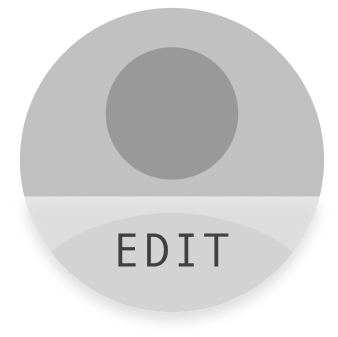
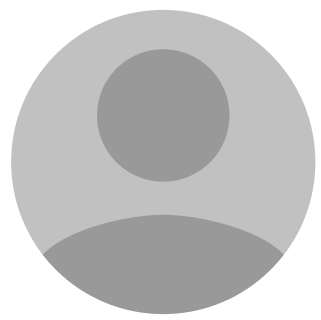
update layout

diff --git a/src/views/components/user/mmr/mmr-information.component.js b/src/views/components/user/mmr/mmr-information.component.js
@@ -2,7 +2,7 @@ import React, { Component } from 'react';
 import PropTypes from 'prop-types';
 import ReactNative, {
   StyleSheet,
-  Image, View, TouchableOpacity, Text, SafeAreaView, ScrollView, TextInput, KeyboardAvoidingView,
+  Image, View, TouchableOpacity, Text, SafeAreaView, ScrollView, TextInput, KeyboardAvoidingView, ImageBackground,
 } from 'react-native';
 import moment from 'moment';
 import { convertWidth, } from 'src/utils';
@@ -101,13 +101,14 @@ export class MMRInformationComponent extends Component {
   }
 
   render() {
+    console.log('mmrInformation :', this.state.mmrInformation);
     return (
       <SafeAreaView style={styles.bodySafeView}>
         <View style={styles.header}>
           <TouchableOpacity style={styles.headerLeft} onPress={() => this.props.displayFromUserScreen ? Actions.account() : Actions.pop()}>
             <Image style={styles.headerLeftBackIcon} source={require('assets/imgs2/back_icon_black.png')} />
           </TouchableOpacity>
-          <Text style={styles.headerTitle}>Minimum Medical Record</Text>
+          <Text style={styles.headerTitle} numberOfLines={1}>Minimum Medical Record</Text>
           <TouchableOpacity style={styles.headerRight} disabled={this.state.isEditing} onPress={() => this.setState({ isEditing: !this.state.isEditing })}>
             {!this.state.isEditing && <Image style={styles.headerLeftBackIcon} source={require('assets/imgs2/edition_icon_black.png')} />}
           </TouchableOpacity>
@@ -147,7 +148,7 @@ export class MMRInformationComponent extends Component {
               <Image style={styles.cardHeaderIcon} source={require('assets/imgs2/mmr_information_icon_1.png')} />
             </ShadowTopComponent>
             <View style={styles.cardContentRow}>
-              <Text>{this.state.mmrInformation.activeClinicalDiagnoses}</Text>
+              <Text style={styles.cardContentRowValue}>{this.state.mmrInformation.activeClinicalDiagnoses}</Text>
             </View>
           </ShadowComponent>
 
@@ -159,7 +160,7 @@ export class MMRInformationComponent extends Component {
               <Image style={styles.cardHeaderIcon} source={require('assets/imgs2/mmr_information_icon_2.png')} />
             </ShadowTopComponent>
             <View style={styles.cardContentRow}>
-              <Text>{this.state.mmrInformation.currentTreatmentsAndDosages}</Text>
+              <Text style={styles.cardContentRowValue}>{this.state.mmrInformation.currentTreatmentsAndDosages}</Text>
             </View>
           </ShadowComponent>
 
@@ -171,7 +172,7 @@ export class MMRInformationComponent extends Component {
               <Image style={styles.cardHeaderIcon} source={require('assets/imgs2/mmr_information_icon_3.png')} />
             </ShadowTopComponent>
             <View style={styles.cardContentRow}>
-              <Text>{this.state.mmrInformation.allergiesAndReactions}</Text>
+              <Text style={styles.cardContentRowValue}>{this.state.mmrInformation.allergiesAndReactions}</Text>
             </View>
           </ShadowComponent>
 
@@ -183,7 +184,7 @@ export class MMRInformationComponent extends Component {
               <Image style={styles.cardHeaderIcon} source={require('assets/imgs2/mmr_information_icon_4.png')} />
             </ShadowTopComponent>
             <View style={styles.cardContentRow}>
-              <Text>{this.state.mmrInformation.visibleAndInvisibleDisabilities}</Text>
+              <Text style={styles.cardContentRowValue}>{this.state.mmrInformation.visibleAndInvisibleDisabilities}</Text>
             </View>
           </ShadowComponent>
         </ScrollView>}
@@ -200,10 +201,13 @@ export class MMRInformationComponent extends Component {
               <View style={styles.cardContentRow}>
                 <TouchableOpacity onPress={this.chooseAvatar.bind(this)}>
                   <Image style={styles.mmrInformationAvatar} source={this.state.mmrInformation.avatar ? { uri: this.state.mmrInformation.avatar } : require('assets/imgs2/mmr_avarta_default.png')} />
+                  <ImageBackground style={styles.mmrInformationAvatarCover} source={require('assets/imgs2/mmr_avarta_edit_cover.png')}>
+                  </ImageBackground>
+                  {/* <View style={styles.mmrInformationAvatarCover}><Text style={{ fontFamily: 'Andale Mono', fontSize: 12, color: '#404040' }}>EDIT</Text></View> */}
                 </TouchableOpacity>
                 <View style={styles.mmrInformationBasic}>
                   <Text style={styles.mmrInformationLabel}>Name</Text>
-                  <TextInput style={[styles.mmrInformationValueInput, { paddingLeft: convertWidth(16), paddingRight: convertWidth(16) }]}
+                  <TextInput style={[styles.mmrInformationValueInput, { paddingLeft: convertWidth(16), paddingRight: convertWidth(16), color: '#C1C1C1' }]}
                     placeholder='TAP TO INPUT'
                     defaultValue={this.state.mmrInformation.name}
                     onChangeText={(name) => this.updateMMRInformationState.bind(this)({ name })}
@@ -211,8 +215,14 @@ export class MMRInformationComponent extends Component {
                   <View style={{ flex: 1, flexDirection: 'row', marginTop: 16 }}>
                     <View style={{ flex: 1, flexDirection: 'column' }}>
                       <Text style={styles.mmrInformationLabel}>Date of birth</Text>
-                      <DatePicker style={styles.mmrInformationValueInput}
-                        date={this.state.mmrInformation.birthday}
+                      <DatePicker style={{
+                        marginTop: 3,
+                        flex: 1, width: '100%', height: 32,
+                        backgroundColor: '#F5F5F5',
+                        borderColor: 'transparent', borderWidth: 0.1, borderRadius: 4,
+                        shadowOffset: { width: 0, height: 0, }, shadowOpacity: 0.2, shadowColor: '#000', shadowRadius: 5,
+                      }}
+                        date={this.state.mmrInformation.birthday ? moment(this.state.mmrInformation.birthday).toDate() : undefined}
                         onDateChange={(birthday) => this.updateMMRInformationState.bind(this)({ birthday: moment(birthday, 'DD|MM|YYYY').toDate() })}
                         maxDate={moment().toDate()}
                         format="DD|MM|YYYY"
@@ -352,7 +362,7 @@ const styles = StyleSheet.create({
     width: 16, height: '100%', resizeMode: 'contain',
   },
   headerTitle: {
-    fontFamily: 'Avenir Black', fontSize: 24, fontWeight: '900', textAlign: 'center',
+    fontFamily: 'AvenirNextW1G-Bold', fontSize: 24, textAlign: 'center',
     flex: 1
   },
   headerRight: {
@@ -374,29 +384,41 @@ const styles = StyleSheet.create({
     paddingLeft: convertWidth(15), flexDirection: 'row', alignItems: 'center',
   },
   cardTitleText: {
-    fontFamily: 'Avenir Light', fontSize: 10, fontWeight: '300',
+    fontFamily: 'AvenirNextW1G-Light', fontSize: 10,
   },
   cardHeaderIcon: {
     width: 26, height: 33, resizeMode: 'contain',
     marginRight: convertWidth(18),
   },
   cardContentRow: {
-    paddingTop: 25, paddingBottom: 25, paddingLeft: convertWidth(15), paddingRight: convertWidth(15),
+    paddingTop: 9, paddingBottom: 15, paddingLeft: convertWidth(15), paddingRight: convertWidth(15),
     flex: 1, flexDirection: 'row',
+    minHeight: 50,
+  },
+  cardContentRowValue: {
+    fontFamily: 'AvenirNextW1G-Light', fontSize: 14, color: 'rgba(0, 0, 0, 0.6)',
   },
   mmrInformationAvatar: {
-    width: 76, height: 76, resizeMode: 'center',
-    borderWidth: 1, borderColor: 'white', borderRadius: 38,
+    width: 76, height: 76, resizeMode: 'stretch',
+    borderWidth: 1, borderRadius: 38,
+    borderColor: 'white',
     marginRight: convertWidth(15),
+    shadowOffset: { width: 0, height: 2, }, shadowOpacity: 0.2, shadowColor: '#000000', shadowRadius: 5,
+  },
+  mmrInformationAvatarCover: {
+    position: 'absolute',
+    top: 7, left: -3,
+    width: 82, height: 70,
+    justifyContent: 'center', alignItems: 'center',
   },
   mmrInformationBasic: {
     flex: 1,
   },
   mmrInformationLabel: {
-    fontFamily: 'Avenir Light', fontSize: 10, fontWeight: '300', color: '#545454',
+    fontFamily: 'AvenirNextW1G-Light', fontSize: 10, color: '#545454',
   },
   mmrInformationValue: {
-    fontFamily: 'Avenir Light', fontSize: 14, fontWeight: '900', color: '#545454',
+    fontFamily: 'AvenirNextW1G-Bold', fontSize: 14, color: '#545454',
     marginTop: 3,
   },
 
@@ -404,6 +426,7 @@ const styles = StyleSheet.create({
     marginTop: 3,
     flex: 1, width: '100%', height: 32,
     backgroundColor: '#F5F5F5',
+    fontFamily: 'AvenirNextW1G-Regular', color: 'rgba(0, 0, 0, 0.87)',
     borderColor: 'transparent', borderWidth: 0.1, borderRadius: 4,
     shadowOffset: { width: 0, height: 0, }, shadowOpacity: 0.2, shadowColor: '#000', shadowRadius: 5,
   },

diff --git a/src/views/components/user/mmr/mmr-card.component.js b/src/views/components/user/mmr/mmr-card.component.js
@@ -38,7 +38,7 @@ class PrivateMMRCardComponent extends Component {
           <TouchableOpacity style={styles.bodyContent} disabled={!this.props.displayFromUserScreen} onPress={this.props.onPress ? this.props.onPress : Actions.account}>
             <Text style={styles.mmrUserTitle}>{this.props.displayFromUserScreen ? 'Vault' : 'Minimum Medical Record'}</Text>
             <View style={styles.mmrInformation}>
-              <Image style={styles.mmrInformationAvatar} source={{ uri: this.props.mmrInformation.avatar }} />
+              <Image style={styles.mmrInformationAvatar} source={this.props.mmrInformation.avatar ? { uri: this.props.mmrInformation.avatar } : require('assets/imgs2/mmr_avarta_default.png')} />
               <View style={styles.mmrInformationBasic}>
                 <Text style={styles.mmrInformationLabel}>Name</Text>
                 <Text style={styles.mmrInformationValue}>{this.props.mmrInformation.name}</Text>
@@ -78,11 +78,11 @@ const styles = StyleSheet.create({
     backgroundColor: 'white',
   },
   cardHeaderTitleText: {
-    fontFamily: 'Avenir Light', fontSize: 24, fontWeight: '900',
+    fontFamily: 'AvenirNextW1G-Bold', fontSize: 24, color: 'rgba(0, 0, 0, 0.87)',
   },
   cardContentDescription: {
     marginTop: 18,
-    fontFamily: 'Avenir Light', fontSize: 14, fontWeight: '300', color: 'rgba(0, 0, 0, 0.6)',
+    fontFamily: 'AvenirNextW1G-Light', fontSize: 14, color: 'rgba(0, 0, 0, 0.6)',
   },
   cardNextButton: {
     width: '100%',
@@ -92,7 +92,7 @@ const styles = StyleSheet.create({
     width: 16, height: 16, resizeMode: 'contain',
   },
   mmrUserTitle: {
-    fontFamily: 'Avenir Black', fontSize: 18, fontWeight: '900',
+    fontFamily: 'AvenirNextW1G-Bold', fontSize: 18,
     padding: convertWidth(15), paddingBottom: 0,
   },
   mmrInformation: {
@@ -100,7 +100,7 @@ const styles = StyleSheet.create({
     flexDirection: 'row',
   },
   mmrInformationAvatar: {
-    width: 76, height: 76, resizeMode: 'center',
+    width: 76, height: 76, resizeMode: 'stretch',
     borderWidth: 1, borderColor: 'white', borderRadius: 38,
     marginRight: convertWidth(15),
   },
@@ -108,13 +108,13 @@ const styles = StyleSheet.create({
     flex: 1,
   },
   mmrInformationLabel: {
-    fontFamily: 'Avenir Light', fontSize: 10, fontWeight: '300', color: '#545454',
+    fontFamily: 'AvenirNextW1G-Light', fontSize: 10, color: '#545454',
   },
   mmrInformationValue: {
-    fontFamily: 'Avenir Light', fontSize: 14, fontWeight: '900', color: '#545454',
+    fontFamily: 'AvenirNextW1G-Bold', fontSize: 14, color: 'rgba(0, 0, 0, 0.6)',
   },
   mmrInformationSeeMoreButtonText: {
-    fontFamily: 'Avenir Black', fontSize: 10, fontWeight: '900', color: '#FF003C',
+    fontFamily: 'AvenirNextW1G-Bold', fontSize: 10, color: '#FF003C',
   },
 });
 
